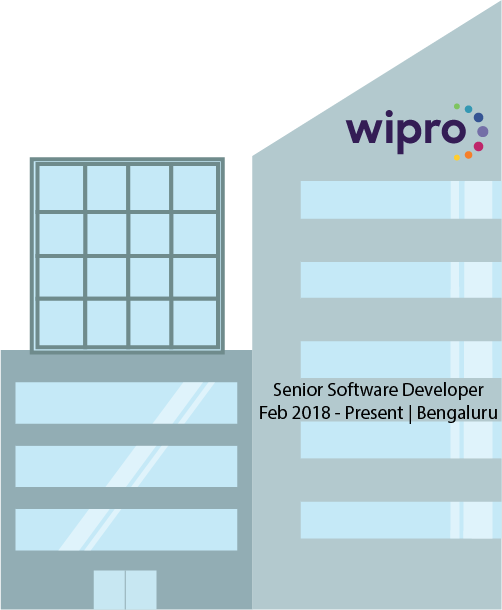
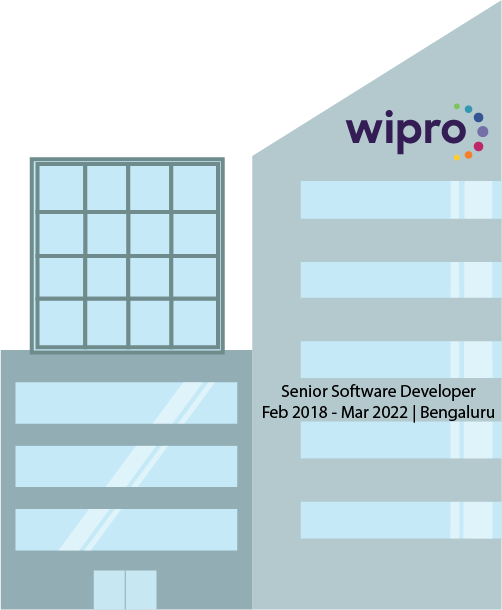
changes in company end date + added skills

Changed region(s): [[0.508, 0.623, 1.0, 0.7164]]

diff --git a/js/myresume.js b/js/myresume.js
@@ -125,7 +125,7 @@ function gamecreate(){
 	game.add.sprite(milestone3+2100,h-(100-2)-(1*326),'startup');
 	game.add.sprite(milestone3+2500,h-(100-2)-(0.75*448),'treeball').scale.setTo(0.75,0.75);
 
-	
+
 	let windmill = game.add.sprite(milestonewindmill,h-(100-2)-(1*492), 'windmill');
 	windmill.animations.add('run');
 	windmill.animations.play('run',8,true);
@@ -147,7 +147,8 @@ function gamecreate(){
 	game.add.sprite(milestone4+1000,h-(100-2)-(0.30*190),'bushes').scale.setTo(0.30,0.30);
 	game.add.sprite(milestone4+1200,h-(100-2)-(0.90*870) - 250,'dls').scale.setTo(0.90,0.90);
 	game.add.sprite(milestone4+1250,h-(100-2)-(0.30*190),'bushes').scale.setTo(0.30,0.30);
-
+	game.add.sprite(milestone4+1450,h-(100-2)-(0.90*1254) - 150,'jpj').scale.setTo(0.90,0.90);
+	game.add.sprite(milestone4+1500,h-(100-2)-(0.30*190),'bushes').scale.setTo(0.30,0.30);
 	// let windmill1 = game.add.sprite(11450,h-(100-2)-(1*492), 'windmill');
 	// windmill1.animations.add('run');
 	// windmill1.animations.play('run',8,true);
@@ -213,16 +214,16 @@ function gamecreate(){
  	game.physics.arcade.enable(plane);
 	plane.scale.setTo(0.75,0.75);
 	start_text = game.add.text(w/2-200,h-50,"Use ◀ Screen Buttons ▶ or  Arrow Keys",{font:"35px Roboto",fill:"#fff"});
-	end_text = game.add.text(platformLength - w/2 - 200,h-50,"All the design elements are created by Sahil.",{font:"35px Roboto",fill:"#fff"});
+	end_text = game.add.text(platformLength - w/2 - 100,h-50,"Designed with ❤ by Sahil",{font:"35px Roboto",fill:"#fff"});
 	end_text.alpha=0;
-	let alphaText = game.add.text(platformLength - w/2 - 100,h-10,"*Fun Fact*: The Game size is only 600KB including graphics.",{font:"20px Roboto",fill:"#fff"});
+	let alphaText = game.add.text(platformLength - w/2 - 100,h-10,"*Fun Fact*: Game is less than 600KB in size",{font:"20px Roboto",fill:"#fff"});
 	alphaText.alpha=0.6;
 	player = game.add.sprite(100,starting_y_point,'sahil');
 	player.animations.add('run');
 
 	//	player entry animation of bounce
 	var entryTween = game.add.tween(player);
- 	entryTween.to({x:start_point,y:h-(100-2)-player.height},2000,Phaser.Easing.Bounce.Out, true);
+ 	entryTween.to({x:start_point,y:h-(100-2)-player.height},1500,Phaser.Easing.Bounce.Out, true);
  	entryTween.start();
 	cursors = game.input.keyboard.createCursorKeys();
 	game.physics.startSystem(Phaser.Physics.ARCADE);
@@ -311,6 +312,12 @@ function gameupdate(){
 	}else{
 		player.animations.stop('run');
 	}
+
+	// if(player.x >=10000 && player.x <= 15000 && player.y == h-(100-2)-player.height){
+	// 	game.add.tween(player).to({x:10050,y:(h+650)-2},2000,Phaser.Easing.Bounce.Out, true).start();
+	// 	player.x=10050;
+	// 	player.y = h+450;
+	// }
 	
 	if(player.x<=0&&direction=="right"){
 		player.x =0;
@@ -328,7 +335,7 @@ function gameupdate(){
 	}
 
 
-	if(plane.x<(18500+offsetNewCompany)){
+	if(plane.x<(18000+offsetNewCompany)){
 		game.time.events.add(Phaser.Timer.SECOND * 3, fadePlane, this);
 	}
 
@@ -345,7 +352,7 @@ function gameupdate(){
 }
 
 function fadePlane() {
-		game.add.tween(plane).to( { alpha: 0 }, 1000, Phaser.Easing.Linear.None, true);
+		game.add.tween(plane).to( { alpha: 0 }, 500, Phaser.Easing.Linear.None, true);
 }
 
 function movePlaneLeft(){

diff --git a/js/PreloadGameState.js b/js/PreloadGameState.js
@@ -51,6 +51,7 @@ function loadImages(){
 	game.load.image('bushes','assets/bushes.png');
 	game.load.image('castle','assets/castle.png');
 	game.load.image('cdg','assets/cdg.png');
+	game.load.image('jpj','assets/jpj.png');
 	game.load.image('mountain','assets/mountain.png');
 	game.load.image('colahead','assets/colahead.png');
 	game.load.image('college','assets/college.png');
